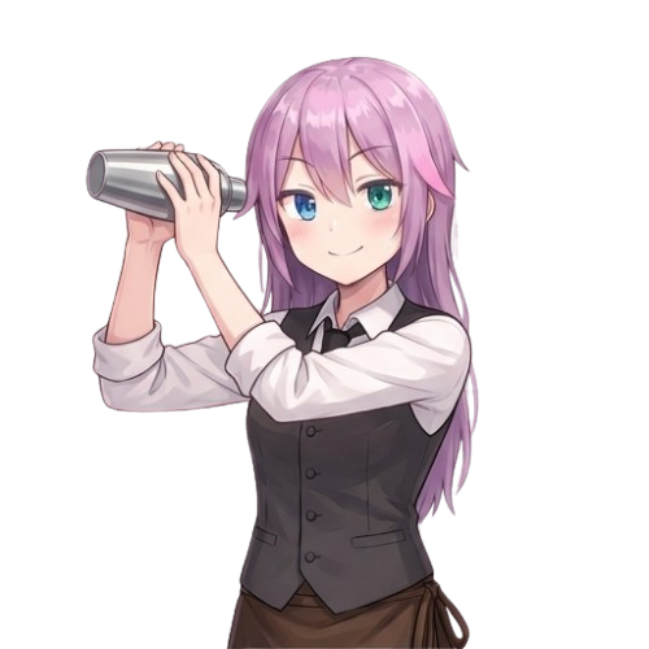
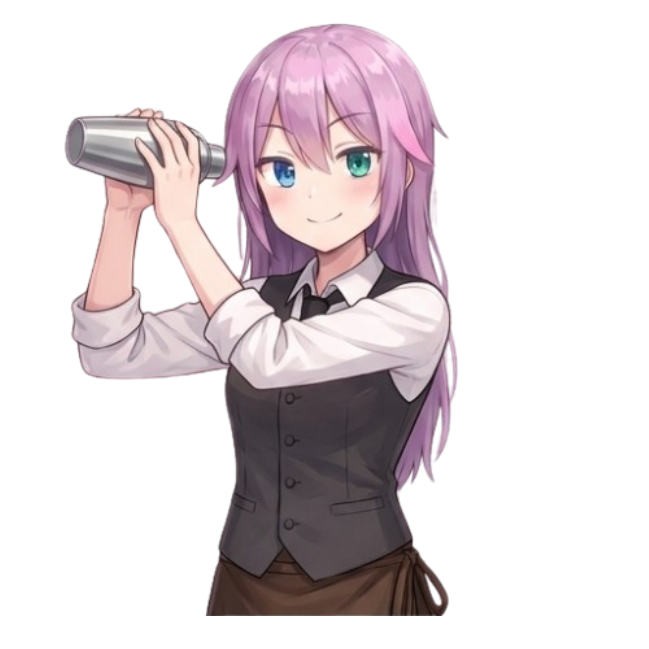
fix: sprite alignment - vertical head-top + horizontal eye-midpoint 정렬
- S1~S4.png 상단 여백 통일 (Kaura.png 기준 head top Y=25)
- 눈동자 중심 midoint X 기준 가로 정렬 (target X=331)
- BartenderSprite.tsx: img에 key prop 추가 (트랜지션 깜빡임 방지)
- 메타데이터 업데이트

Changed region(s): [[0.0924, 0.0308, 0.7396, 1.0], [0.4622, 0.7088, 0.4931, 0.7396]]

diff --git a/bar_tend/src/components/bar/BartenderSprite.tsx b/bar_tend/src/components/bar/BartenderSprite.tsx
@@ -92,6 +92,7 @@ export default function BartenderSprite({
     >
       <div className="mood-indicator">{activeLabel}</div>
       <img
+        key={isAnimatingCocktail ? 'anim' : `idle-${expression}`}
         src={activeImage}
         alt="Karua"
         className={`bartender-sprite__image ${
